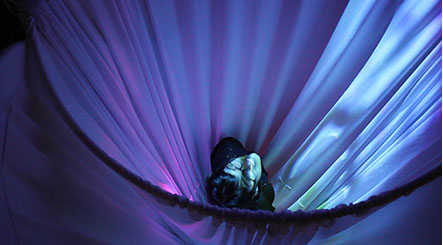
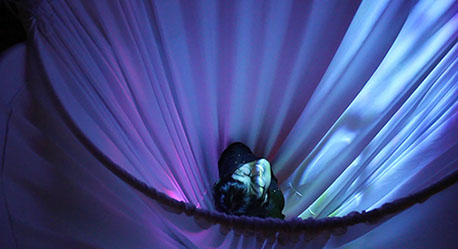
Spring2019SmallFix
SmallFix

diff --git a/css/index.css b/css/index.css
@@ -1,1 +1,1 @@
-.version.index{color:#000008;background-color:#176894;}#page{z-index:1;min-height:581px;background-image:none;border-width:0px;border-color:#000000;background-color:transparent;padding-bottom:21px;width:100%;max-width:1560px;margin-left:auto;margin-right:auto;}#ppu1284-7{z-index:0;margin-right:-10000px;margin-top:70px;width:95%;margin-left:2.57%;}#pu1284-7{z-index:24;width:89.34%;margin-left:4.26%;}#u1284-7{z-index:24;min-height:60px;position:relative;margin-right:-10000px;width:76.29%;}#u161-4{z-index:6;width:60px;min-height:21px;position:relative;margin-right:-10000px;margin-top:32px;left:90.49%;}#u165{z-index:14;position:relative;margin-right:-10000px;margin-top:33px;width:0.08%;left:95.85%;}#u165 .fluid_height_spacer{padding-bottom:1600%;}#u162-4{z-index:10;width:42px;min-height:21px;position:relative;margin-right:-10000px;margin-top:32px;left:96.83%;}#u156-4{z-index:2;min-height:18px;position:relative;width:68.16%;margin-left:4.26%;}#pu1189{z-index:47;margin-top:108px;width:100%;}#u1189{z-index:47;position:relative;margin-right:-10000px;width:30.91%;}#u1113{z-index:31;position:relative;margin-right:-10000px;width:30.91%;left:34.55%;}#u1115{z-index:33;position:relative;margin-right:-10000px;width:30.91%;left:69.1%;}#pu1256-4{z-index:49;margin-top:11px;width:100%;}#u1256-4{z-index:49;min-height:31px;position:relative;margin-right:-10000px;width:30.91%;}#u1259-4{z-index:53;min-height:31px;position:relative;margin-right:-10000px;width:30.91%;left:34.49%;}#u1262-4{z-index:57;min-height:31px;position:relative;margin-right:-10000px;width:30.91%;left:69.1%;}#pu1117{z-index:35;margin-top:69px;width:100%;}#u1117{z-index:35;position:relative;margin-right:-10000px;width:30.91%;}#u1119{z-index:37;position:relative;margin-right:-10000px;width:30.91%;left:34.55%;}#u1160{z-index:45;position:relative;margin-right:-10000px;width:30.91%;left:69.1%;}#u1160:hover{min-height:0px;width:30.91%;margin:0px -10000px 0px 0%;}#u1160_img{padding-right:3.277217221028584%;padding-bottom:0.8739245922742891%;width:96.73%;}#pu1265-4{z-index:61;margin-top:12px;width:99.87%;}#u1265-4{z-index:61;min-height:36px;position:relative;margin-right:-10000px;width:30.95%;}#u1268-4{z-index:69;min-height:36px;position:relative;margin-right:-10000px;width:30.95%;left:34.53%;}#u1271-4{z-index:77;min-height:36px;position:relative;margin-right:-10000px;width:30.95%;left:69.06%;}#pu1121{z-index:39;margin-top:61px;width:99.94%;margin-left:0.07%;}#u1121{z-index:39;position:relative;margin-right:-10000px;width:30.93%;}#u1157{z-index:43;position:relative;margin-right:-10000px;width:30.93%;left:34.51%;}#u1122{z-index:41;position:relative;margin-right:-10000px;width:30.93%;left:69.08%;}#pu1274-4{z-index:65;margin-top:12px;width:99.87%;}#u1274-4{z-index:65;min-height:36px;position:relative;margin-right:-10000px;width:30.95%;}#u1277-4{z-index:73;min-height:36px;position:relative;margin-right:-10000px;width:30.95%;left:34.53%;}#u1280-4{z-index:81;min-height:36px;position:relative;margin-right:-10000px;width:30.95%;left:69.06%;}.css_verticalspacer .verticalspacer{height:calc(100vh - 1406px);}#pu168{z-index:15;margin-right:-10000px;margin-top:24px;width:59.04%;margin-left:20.45%;}#u168{z-index:15;position:relative;width:100%;}#u168 .fluid_height_spacer{padding-bottom:0.21715526601520088%;}#pu169-4{z-index:16;margin-top:19px;width:97.51%;margin-left:1.2%;}#u169-4{z-index:16;width:184px;min-height:23px;position:relative;margin-right:-10000px;}#u170-4{z-index:20;width:126px;min-height:6px;position:relative;margin-right:-10000px;margin-top:6px;left:85.97%;}#muse_css_mq,.html{background-color:#FFFFFF;}body{position:relative;min-width:320px;padding-top:1px;padding-bottom:47px;}.verticalspacer{min-height:1px;}#u1189_img,#u1113_img,#u1115_img,#u1117_img,#u1119_img,#u1121_img,#u1157_img,#u1122_img{width:100%;}
+.version.index{color:#0000E2;background-color:#449BA9;}#page{z-index:1;min-height:581px;background-image:none;border-width:0px;border-color:#000000;background-color:transparent;padding-bottom:21px;width:100%;max-width:1560px;margin-left:auto;margin-right:auto;}#ppu1284-7{z-index:0;margin-right:-10000px;margin-top:70px;width:95%;margin-left:2.57%;}#pu1284-7{z-index:24;width:89.34%;margin-left:4.26%;}#u1284-7{z-index:24;min-height:60px;position:relative;margin-right:-10000px;width:76.29%;}#u161-4{z-index:6;width:60px;min-height:21px;position:relative;margin-right:-10000px;margin-top:32px;left:90.49%;}#u165{z-index:14;position:relative;margin-right:-10000px;margin-top:33px;width:0.08%;left:95.85%;}#u165 .fluid_height_spacer{padding-bottom:1600%;}#u162-4{z-index:10;width:42px;min-height:21px;position:relative;margin-right:-10000px;margin-top:32px;left:96.83%;}#u156-4{z-index:2;min-height:18px;position:relative;width:68.16%;margin-left:4.26%;}#pu1189{z-index:47;margin-top:108px;width:100%;}#u1189{z-index:47;position:relative;margin-right:-10000px;width:30.91%;}#u1113{z-index:31;position:relative;margin-right:-10000px;width:30.91%;left:34.55%;}#u1115{z-index:33;position:relative;margin-right:-10000px;width:30.91%;left:69.1%;}#pu1256-4{z-index:49;margin-top:11px;width:100%;}#u1256-4{z-index:49;min-height:31px;position:relative;margin-right:-10000px;width:30.91%;}#u1259-4{z-index:53;min-height:31px;position:relative;margin-right:-10000px;width:30.91%;left:34.49%;}#u1262-4{z-index:57;min-height:31px;position:relative;margin-right:-10000px;width:30.91%;left:69.1%;}#pu1117{z-index:35;margin-top:69px;width:100%;}#u1117{z-index:35;position:relative;margin-right:-10000px;width:30.91%;}#u1119{z-index:37;position:relative;margin-right:-10000px;width:30.91%;left:34.55%;}#u1160{z-index:45;position:relative;margin-right:-10000px;width:30.91%;left:69.1%;}#u1160:hover{min-height:0px;width:30.91%;margin:0px -10000px 0px 0%;}#pu1265-4{z-index:61;margin-top:12px;width:99.87%;}#u1265-4{z-index:61;min-height:36px;position:relative;margin-right:-10000px;width:30.95%;}#u1268-4{z-index:69;min-height:36px;position:relative;margin-right:-10000px;width:30.95%;left:34.53%;}#u1271-4{z-index:77;min-height:36px;position:relative;margin-right:-10000px;width:30.95%;left:69.06%;}#pu1121{z-index:39;margin-top:61px;width:99.94%;margin-left:0.07%;}#u1121{z-index:39;position:relative;margin-right:-10000px;width:30.93%;}#u1157{z-index:43;position:relative;margin-right:-10000px;width:30.93%;left:34.51%;}#u1122{z-index:41;position:relative;margin-right:-10000px;width:30.93%;left:69.08%;}#pu1274-4{z-index:65;margin-top:12px;width:99.87%;}#u1274-4{z-index:65;min-height:36px;position:relative;margin-right:-10000px;width:30.95%;}#u1277-4{z-index:73;min-height:36px;position:relative;margin-right:-10000px;width:30.95%;left:34.53%;}#u1280-4{z-index:81;min-height:36px;position:relative;margin-right:-10000px;width:30.95%;left:69.06%;}.css_verticalspacer .verticalspacer{height:calc(100vh - 1406px);}#pu168{z-index:15;margin-right:-10000px;margin-top:24px;width:59.04%;margin-left:20.45%;}#u168{z-index:15;position:relative;width:100%;}#u168 .fluid_height_spacer{padding-bottom:0.21715526601520088%;}#pu169-4{z-index:16;margin-top:19px;width:97.51%;margin-left:1.2%;}#u169-4{z-index:16;width:184px;min-height:23px;position:relative;margin-right:-10000px;}#u170-4{z-index:20;width:126px;min-height:6px;position:relative;margin-right:-10000px;margin-top:6px;left:85.97%;}#muse_css_mq,.html{background-color:#FFFFFF;}body{position:relative;min-width:320px;padding-top:1px;padding-bottom:47px;}.verticalspacer{min-height:1px;}#u1189_img,#u1113_img,#u1115_img,#u1117_img,#u1119_img,#u1160_img,#u1121_img,#u1157_img,#u1122_img{width:100%;}

diff --git a/index.html b/index.html
@@ -19,7 +19,7 @@ if(typeof Muse == "undefined") window.Muse = {}; window.Muse.assets = {"required
   <link rel="stylesheet" type="text/css" href="css/site_global.css?crc=444006867"/>
   <link rel="stylesheet" type="text/css" href="css/master_a-master.css?crc=3998667675"/>
   <link rel="stylesheet" type="text/css" href="css/master_frontmaster.css?crc=3805792594"/>
-  <link rel="stylesheet" type="text/css" href="css/index.css?crc=135751828" id="pagesheet"/>
+  <link rel="stylesheet" type="text/css" href="css/index.css?crc=3796147113" id="pagesheet"/>
   <!-- IE-only CSS -->
   <!--[if lt IE 9]>
   <link rel="stylesheet" type="text/css" href="css/iefonts_index.css?crc=4146545116"/>
@@ -57,7 +57,7 @@ if(typeof Muse == "undefined") window.Muse = {}; window.Muse.assets = {"required
     <div class="clearfix colelem" id="pu1117"><!-- group -->
      <a class="nonblock nontext clip_frame grpelem" id="u1117" href="gg.html"><!-- image --><img class="block" id="u1117_img" src="images/screen-shot-2018-05-24-at-103305-pm_670-crop-u1117.jpg?crc=3968945353" alt="" data-heightwidthratio="0.5436681222707423" data-image-width="458" data-image-height="249"/></a>
      <a class="nonblock nontext clip_frame grpelem" id="u1119" href="maad.html"><!-- image --><img class="block" id="u1119_img" src="images/adamshome-crop-u1119.jpg?crc=453675306" alt="" data-heightwidthratio="0.5436681222707423" data-image-width="458" data-image-height="249"/></a>
-     <a class="nonblock nontext clip_frame grpelem" id="u1160" href="pressure-points.html"><!-- image --><img class="block" id="u1160_img" src="images/pressurepointsstill3-crop-u1160.jpg?crc=89866020" alt="" data-heightwidthratio="0.5530474040632054" data-image-width="443" data-image-height="245"/></a>
+     <a class="nonblock nontext clip_frame grpelem" id="u1160" href="pressure-points.html"><!-- image --><img class="block" id="u1160_img" src="images/pressurepointsstill3-crop-u1160.jpg?crc=35027491" alt="" data-heightwidthratio="0.5436681222707423" data-image-width="458" data-image-height="249"/></a>
     </div>
     <div class="clearfix colelem" id="pu1265-4"><!-- group -->
      <a class="nonblock nontext clearfix grpelem" id="u1265-4" href="gg.html"><!-- content --><p>Good Girl</p></a>
